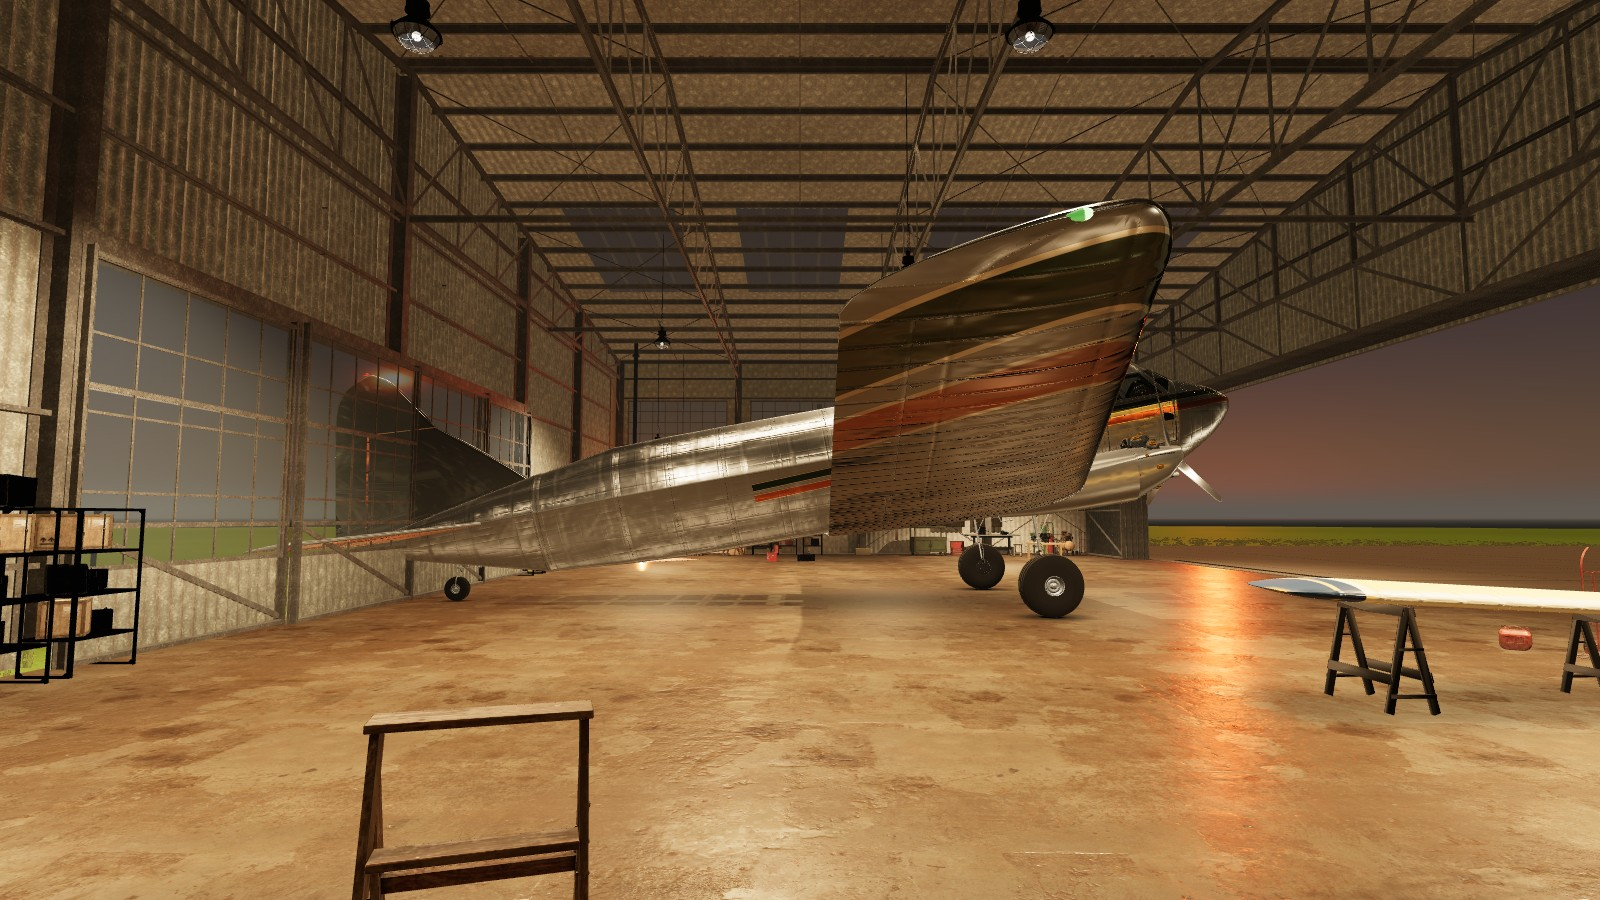
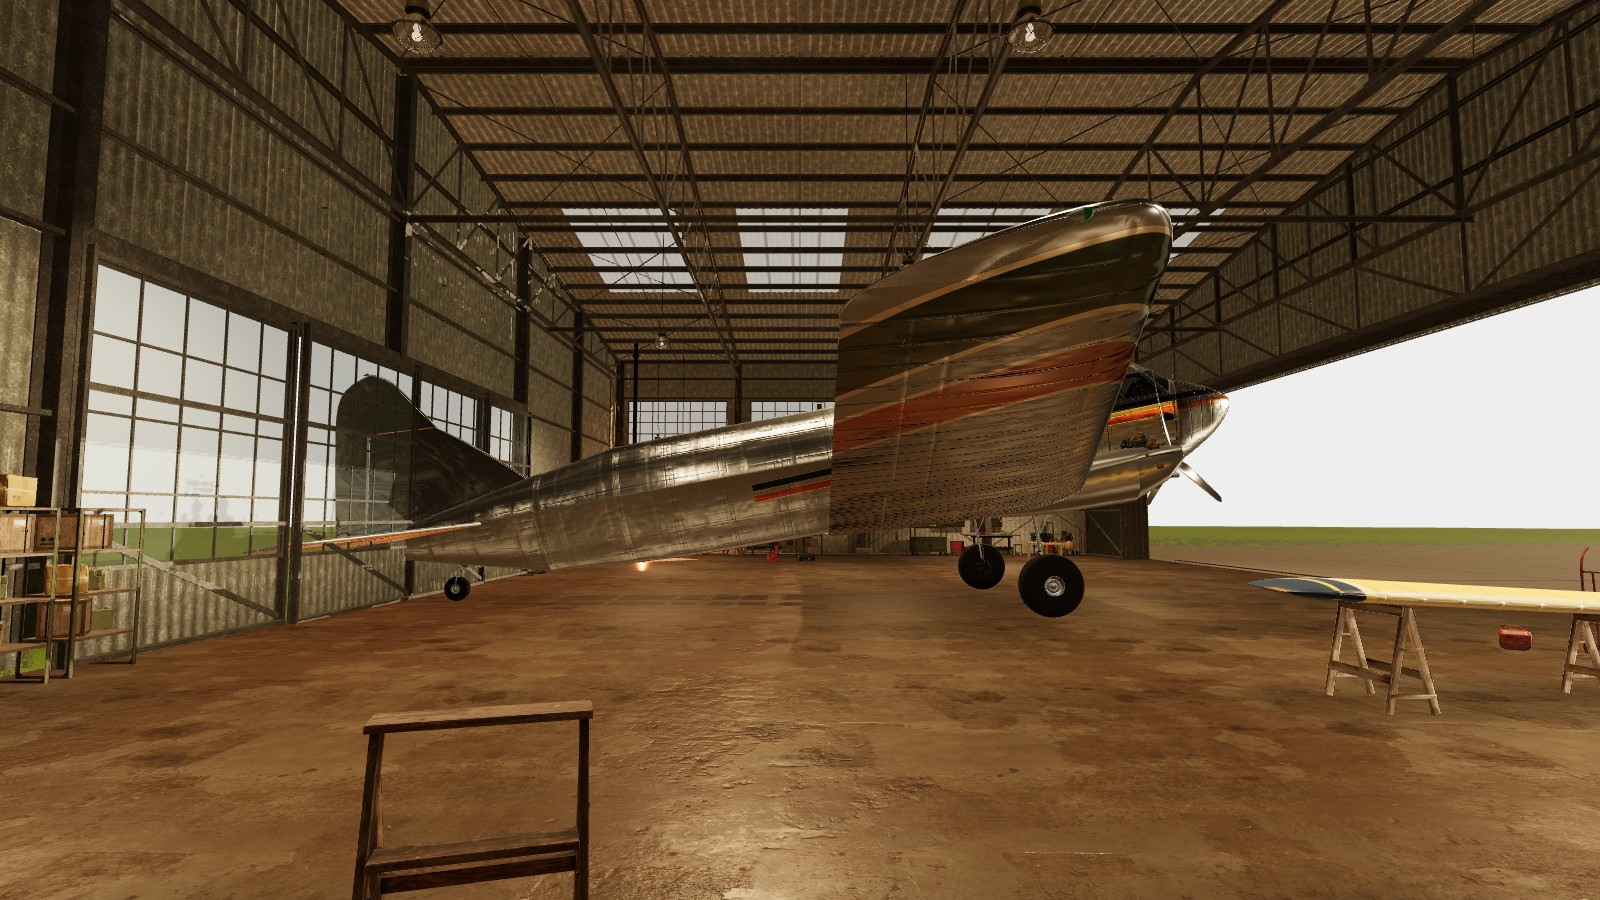
DERELICT-HANGAR: the gallery kept reasonable on a software renderer (1920 x 1080, three moods, no ultrawide, a 6-sample focus pull); DC-3 room views in daylight
Claude-Session: https://claude.ai/code/session_01RorUqEaREi51xJc6HDqs1e

diff --git a/flyDiy/tools/large_hangar_store_shot.js b/flyDiy/tools/large_hangar_store_shot.js
@@ -77,8 +77,8 @@ const bakeProbe = page => page.evaluate(() => {
 // --gallery (the user 9 Nov: "render it on my widescreen ... 5000 something times 1440 ... compose it so that it really
 // works, mainly for the 16:9 format ... a few light conditions ... move the camera around, move the FOV, change the time of
 // the day, change the focus, do some top downs, do some bottom up, maybe do one from across the window"): one loaded
-// scene, many stills - the hero (16:9, 2560 x 1440) in every mood, the ultrawide (5120 x 1440) framed from inside the hall
-// 2 m off every wall, a top-down under the trusses, a bottom-up under a wing, one in through a flank window, a telephoto
+// scene, a few stills at 1920 x 1080 (a software renderer: the 5120 x 1440 ultrawide dropped, the user's word) - the hero
+// (16:9) in three moods, a top-down under the trusses, a bottom-up under a wing, one in through a flank window, a telephoto
 // from the apron, and a focus pull (depth of field by accumulation: the eye jittered over a lens disc, every sample aimed at
 // the focal point, averaged in python after) - written to <OUT>/gallery/
 const GALLERY = argv.includes('--gallery');
@@ -103,33 +103,32 @@ async function gallery(page, R, log) {
   const res = plan[0] || { x: 8, z: -8 };
   // the views, in the room's frame (the door at -x, x the depth, z across: the gallery side +z)
   const V = {
-    hero:   { W: 2560, H: 1440, eye: [HD - 5, 7.6, -HW + 5], at: [-5, 0.6, 3], fov: 52 },
-    wide:   { W: 5120, H: 1440, eye: [HD - 3, 6.2, 0], at: [-HD, 2.4, 0], hfov: 96 },
-    top:    { W: 2560, H: 1440, eye: [2, EAVE - 1.7, 0], at: [2.01, 0, 0], fov: 92 },
-    under:  { W: 2560, H: 1440, eye: [res.x + 1.2, 0.35, res.z + 2.4], at: [res.x - 0.5, 3.2, res.z - 1.5], fov: 70 },
-    window: { W: 2560, H: 1440, eye: [3, 2.2, -HW - 4], at: [1, 1.4, 6], fov: 46 },
-    tele:   { W: 2560, H: 1440, eye: [-HD - 26, 1.7, 1.5], at: [0, 2.2, 0], fov: 22 },
+    hero:   { W: 1920, H: 1080, eye: [HD - 5, 7.6, -HW + 5], at: [-5, 0.6, 3], fov: 52 },
+    top:    { W: 1920, H: 1080, eye: [2, EAVE - 1.7, 0], at: [2.01, 0, 0], fov: 92 },
+    under:  { W: 1920, H: 1080, eye: [res.x + 1.2, 0.35, res.z + 2.4], at: [res.x - 0.5, 3.2, res.z - 1.5], fov: 70 },
+    window: { W: 1920, H: 1080, eye: [3, 2.2, -HW - 4], at: [1, 1.4, 6], fov: 46 },
+    tele:   { W: 1920, H: 1080, eye: [-HD - 26, 1.7, 1.5], at: [0, 2.2, 0], fov: 22 },
   };
   const out = [];
   const setMood = i => page.evaluate(i => { window.GARAGE_ENV.setMood(i); return (window.GARAGE_ENV._debug().hangar.moods || [])[i]; }, i);
-  const moods = info.moods.length ? info.moods.map((n, i) => [i, n]) : [[0, 'day']];
+  // (a software renderer: three moods, not every row - the user: "stay reasonable")
+  const moods = info.moods.length ? info.moods.map((n, i) => [i, n]).filter(([i, n]) => /^(AFTERNOON|GOLDEN|NIGHT)$/i.test(n)) : [[0, 'day']];
   for (const [i, name] of moods) {
     await setMood(i); await sleep(15000); log('  gallery mood ' + name + ': probe ' + await bakeProbe(page));
     const f = save(await shot(Object.assign({ expo: EXPO }, V.hero)), 'hero_' + name + '.jpg'); out.push(f); log('    ' + f);
-    if (i === 0 || /golden|dusk|even/i.test(name)) { const w = save(await shot(Object.assign({ expo: EXPO }, V.wide)), 'wide_' + name + '.jpg'); out.push(w); log('    ' + w); }
   }
   await setMood(0); await sleep(15000); await bakeProbe(page);
   for (const k of ['top', 'under', 'window', 'tele']) { const f = save(await shot(Object.assign({ expo: EXPO }, V[k])), k + '.jpg'); out.push(f); log('    ' + f); }
   // THE FOCUS PULL: the eye over a lens disc (aperture 0.16 m, 16 samples on a golden-angle spiral), every sample aimed at
   // the Jodel on the stand (the focal plane through it): the planes behind and the trusses fall soft
-  const eye = [-7.5, 1.5, -6.5], at = [0, 1.3, 0], ap = 0.16, N = 16;
+  const eye = [-7.5, 1.5, -6.5], at = [0, 1.3, 0], ap = 0.16, N = 6;
   const fwd = [at[0] - eye[0], at[1] - eye[1], at[2] - eye[2]], L = Math.hypot(...fwd), f0 = fwd.map(v => v / L);
   const rt = [f0[2], 0, -f0[0]], rl = Math.hypot(...rt), r0 = rt.map(v => v / rl), u0 = [f0[1] * r0[2] - f0[2] * r0[1], f0[2] * r0[0] - f0[0] * r0[2], f0[0] * r0[1] - f0[1] * r0[0]];
   const dofs = [];
   for (let n = 0; n < N; n++) {
     const rr = ap * Math.sqrt((n + 0.5) / N), th = n * 2.39996;
     const e = [0, 1, 2].map(k => eye[k] + r0[k] * rr * Math.cos(th) + u0[k] * rr * Math.sin(th));
-    dofs.push(save(await shot({ W: 2560, H: 1440, eye: e, at, fov: 34, expo: EXPO, png: true }), 'dof_' + String(n).padStart(2, '0') + '.png'));
+    dofs.push(save(await shot({ W: 1920, H: 1080, eye: e, at, fov: 34, expo: EXPO, png: true }), 'dof_' + String(n).padStart(2, '0') + '.png'));
   }
   log('    dof: ' + N + ' samples');
   return { views: V, shots: out, dof: { eye, at, aperture: ap, samples: dofs } };
